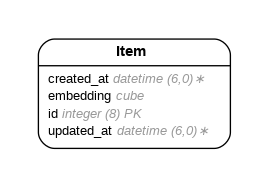
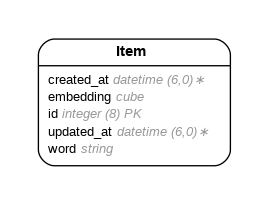
create embedding form

Changed region(s): [[0.119, 0.1604, 0.8625, 0.8289]]

diff --git a/app/controllers/embeddings_controller.rb b/app/controllers/embeddings_controller.rb
@@ -1,0 +1,27 @@
+class EmbeddingsController < ApplicationController
+  def create
+    client = OpenAI::Client.new
+    user_input = params.fetch("query_input")
+    # user_unput = "Water"
+
+    @response = client.embeddings(
+      parameters: {
+        model: "text-embedding-ada-002",
+        input: user_input
+      }
+    )
+
+    embedding = response.dig("data", 0, "embedding")
+
+    new_item = Item.new
+    embedding = new_item.embedding
+    user_input = new_item.word
+    new_item.save
+
+
+    # puts response.dig("data", 0, "embedding")
+    # => Vector representation of your embedding
+
+    redirect_to("/")
+  end
+end

diff --git a/db/schema.rb b/db/schema.rb
@@ -10,7 +10,7 @@
 #
 # It's strongly recommended that you check this file into your version control system.
 
-ActiveRecord::Schema[7.1].define(version: 2025_03_06_231346) do
+ActiveRecord::Schema[7.1].define(version: 2025_03_06_233247) do
   # These are extensions that must be enabled in order to support this database
   enable_extension "cube"
   enable_extension "plpgsql"
@@ -19,6 +19,7 @@ ActiveRecord::Schema[7.1].define(version: 2025_03_06_231346) do
     t.datetime "created_at", null: false
     t.datetime "updated_at", null: false
     t.cube "embedding"
+    t.string "word"
   end
 
 end

diff --git a/config/initializers/openai.rb b/config/initializers/openai.rb
@@ -1,0 +1,4 @@
+OpenAI.configure do |config|
+  config.access_token = ENV.fetch("OPENAI_ACCESS_TOKEN")
+  config.log_errors = true # Highly recommended in development, so you can see what errors OpenAI is returning. Not recommended in production because it could leak private data to your logs.
+end

diff --git a/config/routes.rb b/config/routes.rb
@@ -5,5 +5,6 @@ Rails.application.routes.draw do
   # get "/your_first_screen" => "pages#first"
 
   get("/", { :controller => "home", :action => "index"})
+  post("/create_embedding", { :controller => "embeddings", :action => "create" })
   
 end

diff --git a/app/models/item.rb b/app/models/item.rb
@@ -4,6 +4,7 @@
 #
 #  id         :bigint           not null, primary key
 #  embedding  :cube
+#  word       :string
 #  created_at :datetime         not null
 #  updated_at :datetime         not null
 #

diff --git a/db/migrate/20250306233247_add_word_to_items.rb b/db/migrate/20250306233247_add_word_to_items.rb
@@ -1,0 +1,5 @@
+class AddWordToItems < ActiveRecord::Migration[7.1]
+  def change
+    add_column :items, :word, :string
+  end
+end
